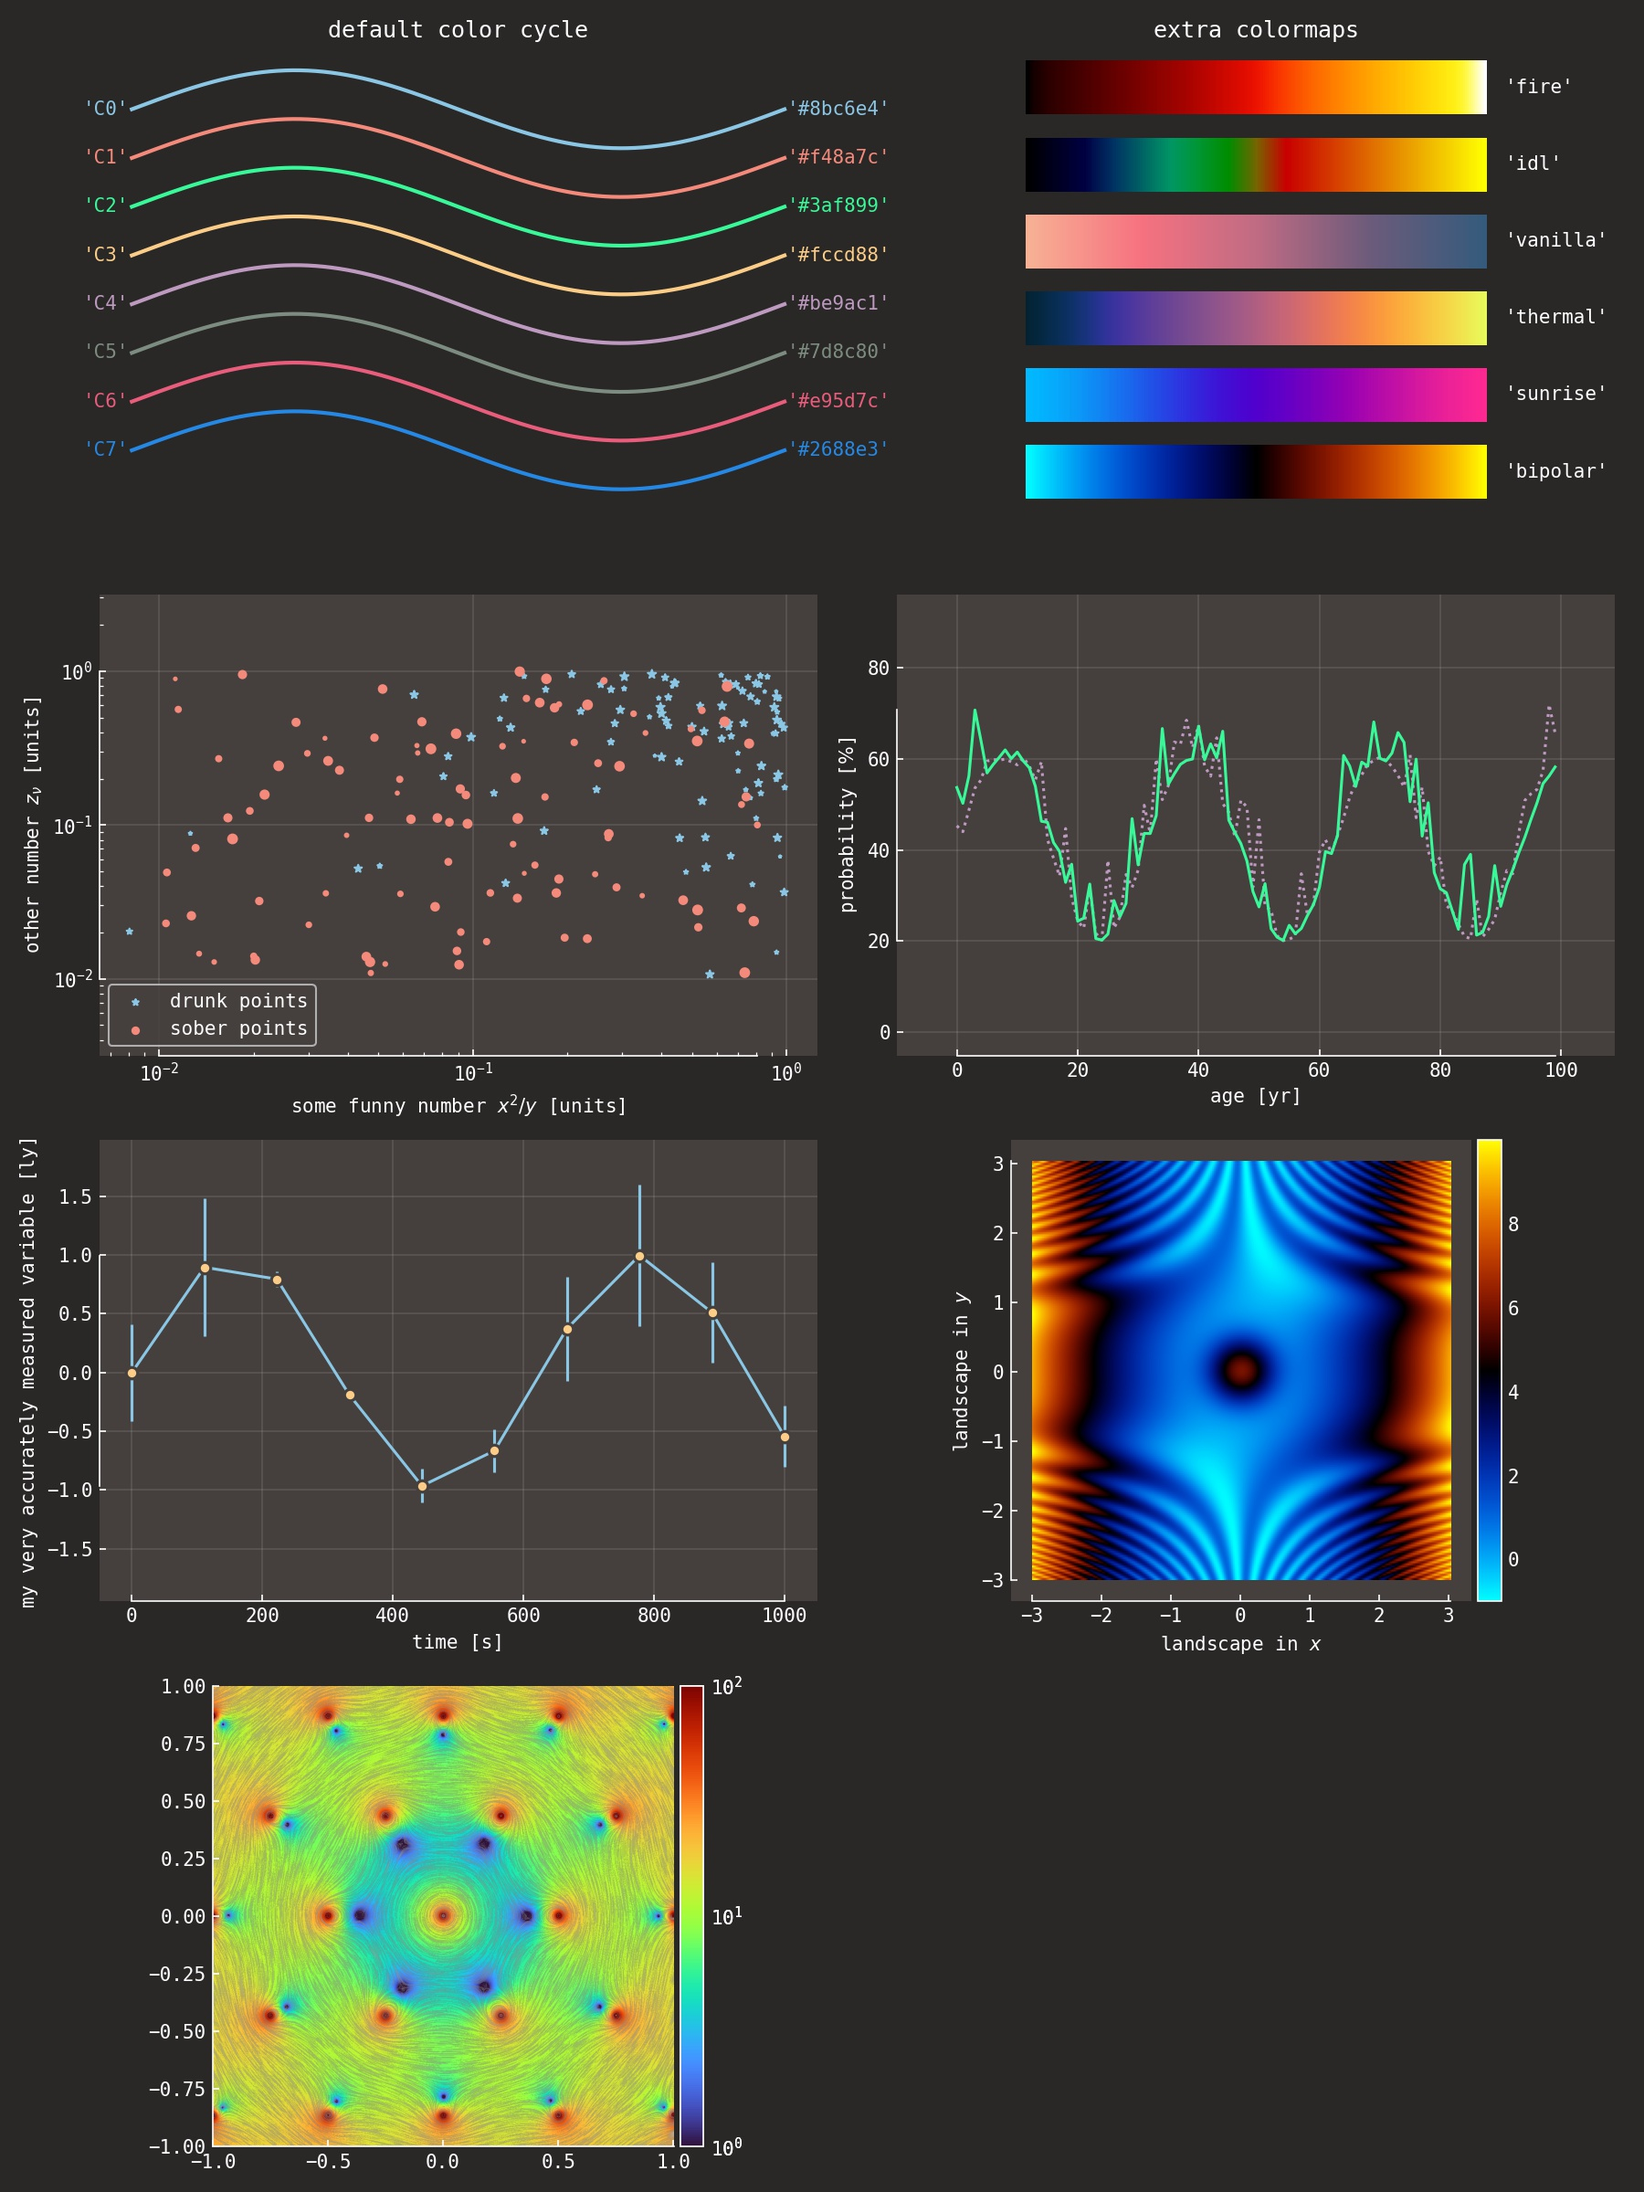
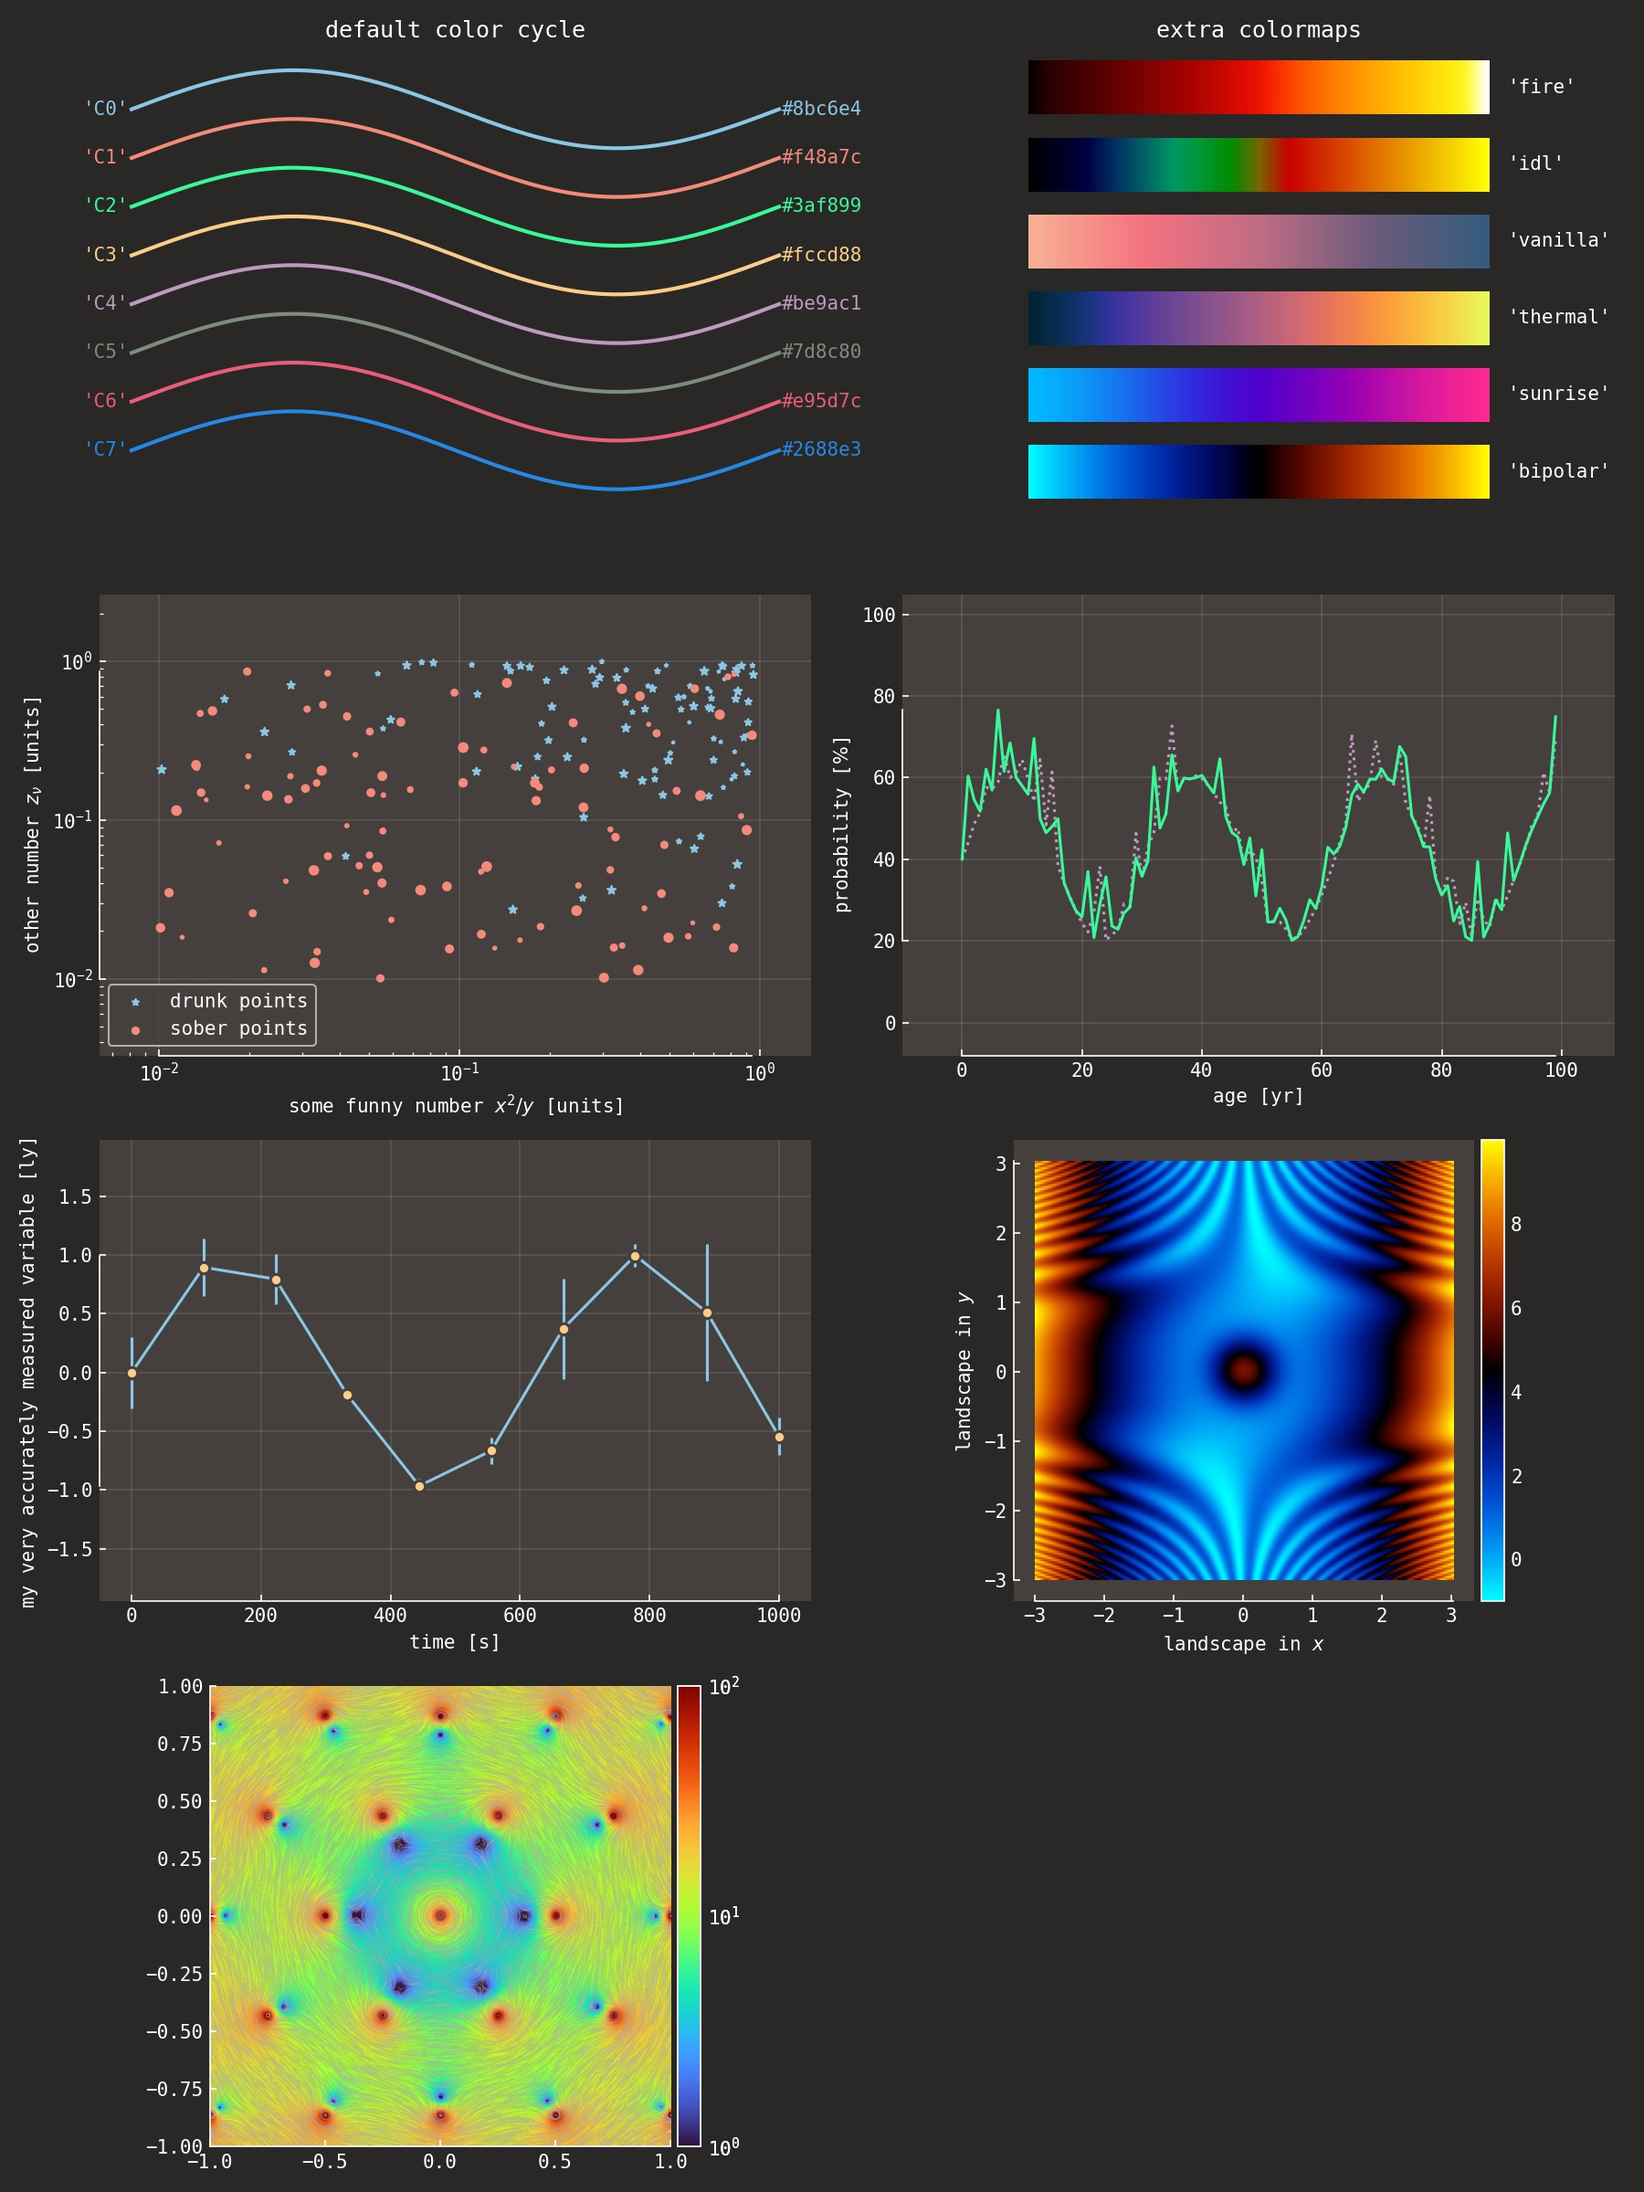
minor

diff --git a/myplotlib/tests.py b/myplotlib/tests.py
@@ -67,7 +67,7 @@ def testColors(ax=None):
     if matplotlib.rcParams['text.usetex']:
       name = r"$\texttt{{{}}}$".format(c.replace('#', '\#'))
     else:
-      name = f"\'{c}\'"
+      name = f"{c}"
     ax.annotate(name,
                 (2*np.pi, v_offset),
                 xytext=(1.5, 0),
